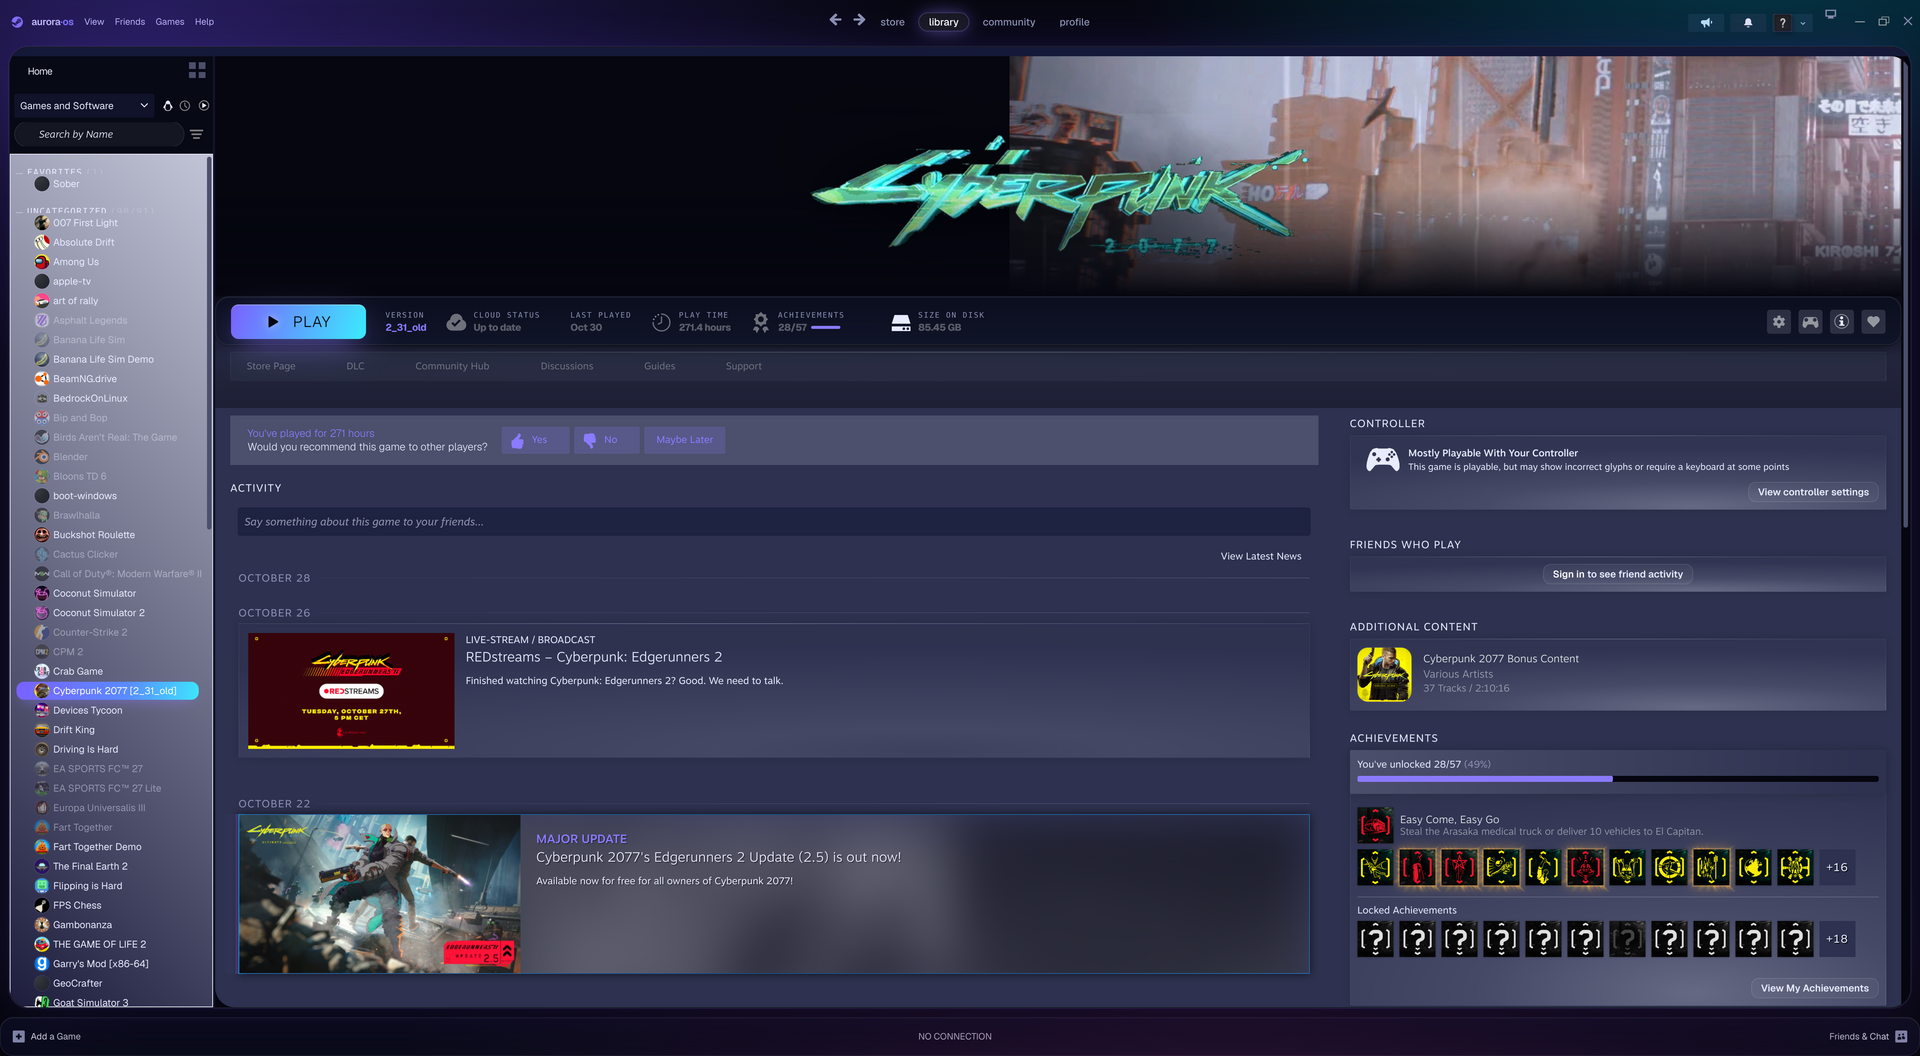
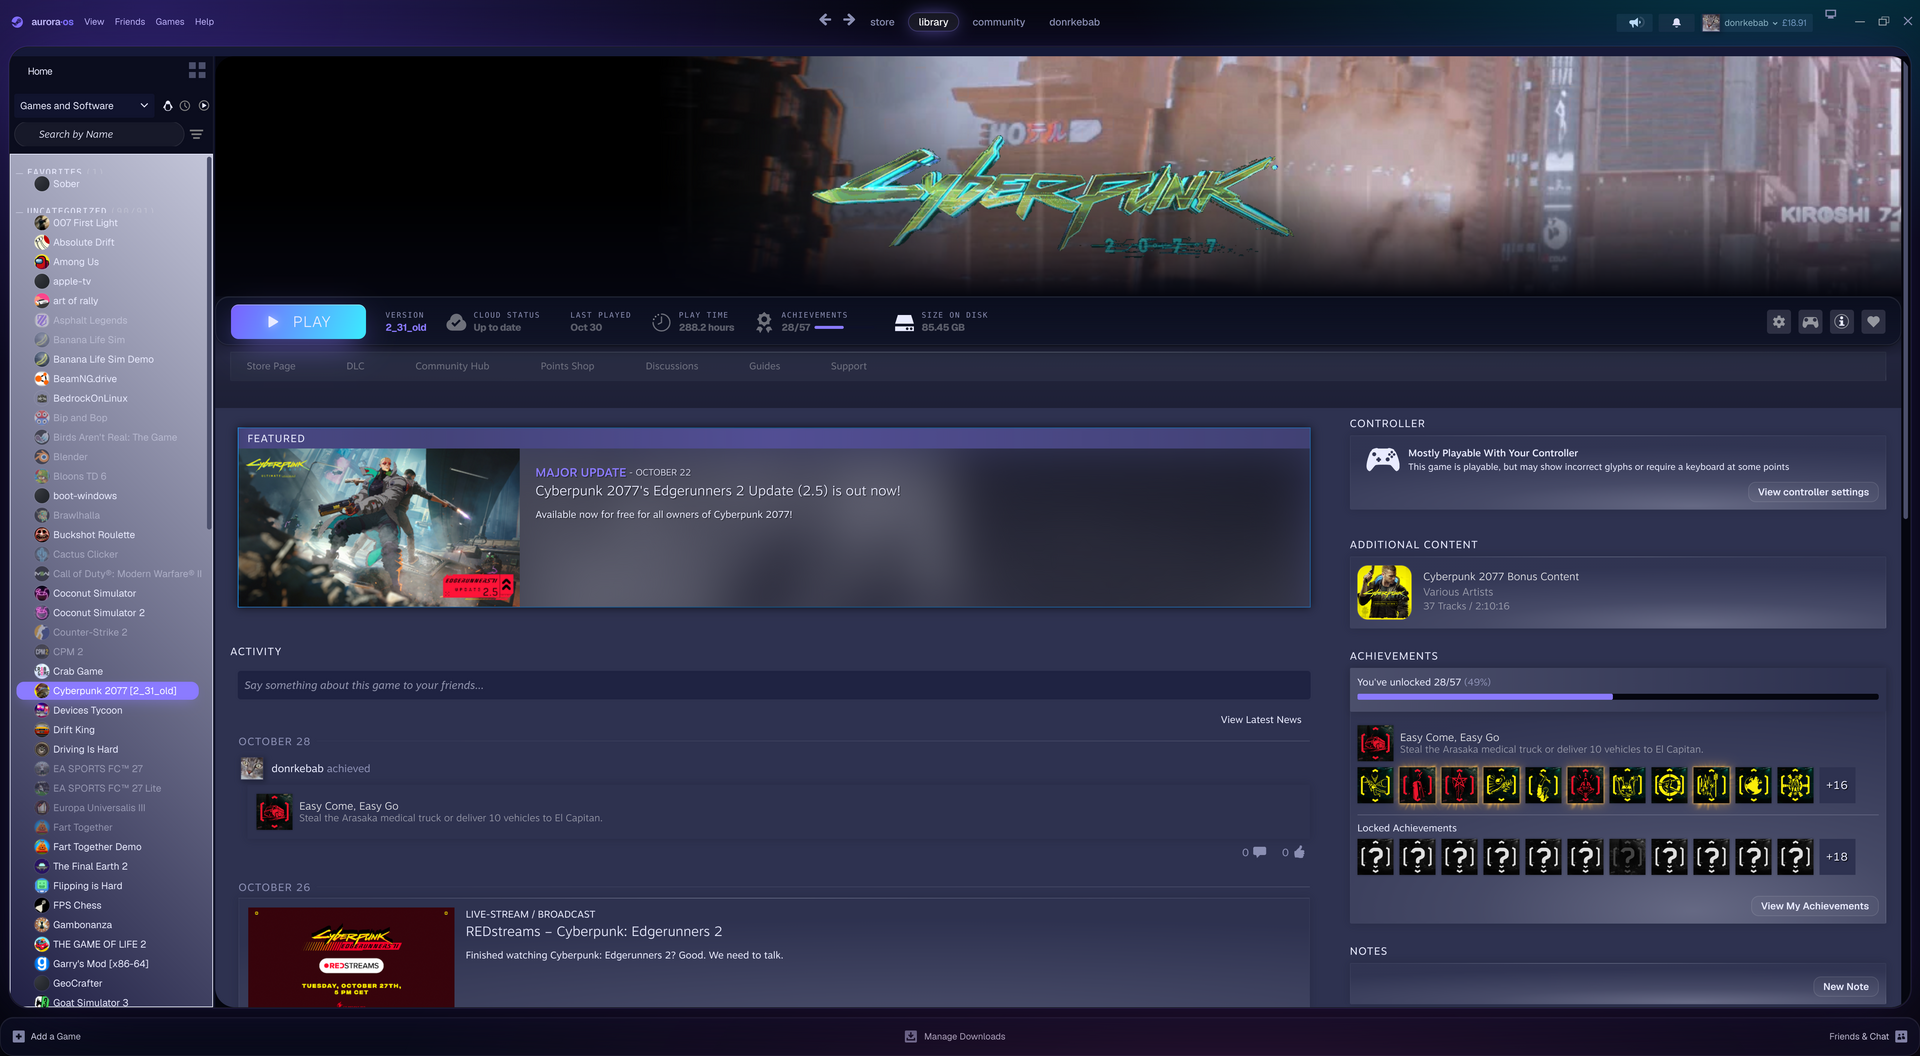
Centered game art, solid sidebar colors, refreshed screenshots

diff --git a/mx/main.css b/mx/main.css
@@ -8,12 +8,12 @@
 --btn-r:10px;--btn-bg:#ffffff0a;--btn-fg:#e9ebff;--btn-border:1px solid #ffffff1a;--btn-bg-h:#ffffff14;--btn-fg-h:#fff;
 --btn-glow:0 0 0 1px #8b7bff80,0 10px 40px -8px #8b7bffaa;--btn-pri:linear-gradient(110deg,#7b61ff,#3ee6ff,#7b61ff);--btn-pri-fg:#05060f}
 :root{--surface-solid:#0e1128;--surface-solid-2:#151938;--surface:#0d1026a6;--surface-2:#ffffff0d;--dock:#0c0f22b3;--hi:#ffffff14;--line-hi:#8b7bff66;--spot:#8b7bff1f;--gap:10px;--rx:18px;--rx-xl:26px;--icon-r:7px;
---sel:linear-gradient(100deg,#7b61ff,#5a8bff 60%,#3ee6ff);--sel-fg:#fff;--font-mono:ui-monospace,monospace}
+--sel:var(--acc);--sel-fg:#fff;--font-mono:ui-monospace,monospace}
 :root{--st-background:5,6,15!important;--st-color-1:11,13,30!important;--st-color-2:19,22,46!important;--st-color-3:14,16,36!important;--st-color-4:16,19,40!important;--st-color-5:34,38,70!important;--st-color-6:30,33,62!important;--st-accent-1:139,123,255!important;--st-accent-2:62,230,255!important;--st-blue:123,97,255!important;--st-blue-hover:150,130,255!important;--st-green:52,211,153!important;--st-green-hover:80,225,170!important;--st-red:255,84,112!important;--st-red-hover:255,110,135!important;--st-yellow:255,196,87!important;--st-yellow-hover:255,210,120!important;--st-border-radius:14px!important}
 :root{--logo-a:"aurora";--logo-b:"·os";--logo-font:600 13px 'Geist',sans-serif;--logo-ls:-.02em;--logo-fill:linear-gradient(90deg,#8b7bff,#3ee6ff,#8b7bff)}
 :root{--nav-tt:lowercase;--nav-ls:0;--nav-size:13.5px;--nav-sel-bg:#ffffff12;--nav-sel-fg:#fff;--nav-sel-shadow:inset 0 0 0 1px #8b7bff55,0 0 24px -6px #8b7bff}
 :root{--store-h1:36px}
-:root{--rail-bg:#0b0d1e66;--cover-r:14px}
+:root{--rail-bg:#0b0d1e;--cover-r:14px}
 :root{--shelf-size:20px}
 :root{--login-h:32px;--avatar-r:50%;--st-online:#6fd3ff;--st-ingame:#9be15d}
 /* generated by gen_base.py from Steam desktop CSS: hardcoded colours -> theme tokens */
@@ -956,7 +956,7 @@
 ._3x1HklzyDs4TEjACrRO2tB{position:relative}
 @keyframes beam{from{transform:translateY(-100%)}to{transform:translateY(400%)}}
 :root{--surface-solid:#0e1128;--surface-solid-2:#151938;--surface:#0d1026a6;--surface-2:#ffffff0d;--dock:#0c0f22b3;--hi:#ffffff14;--line-hi:#8b7bff66;--spot:#8b7bff1f;--gap:10px;--rx:18px;--rx-xl:26px;--icon-r:7px;
---sel:linear-gradient(100deg,#7b61ff,#5a8bff 60%,#3ee6ff);--sel-fg:#fff;--font-mono:ui-monospace,monospace}
+--sel:var(--acc);--sel-fg:#fff;--font-mono:ui-monospace,monospace}
 :root{--st-background:5,6,15!important;--st-color-1:11,13,30!important;--st-color-2:19,22,46!important;--st-color-3:14,16,36!important;--st-color-4:16,19,40!important;--st-color-5:34,38,70!important;--st-color-6:30,33,62!important;--st-accent-1:139,123,255!important;--st-accent-2:62,230,255!important;--st-blue:123,97,255!important;--st-blue-hover:150,130,255!important;--st-green:52,211,153!important;--st-green-hover:80,225,170!important;--st-red:255,84,112!important;--st-red-hover:255,110,135!important;--st-yellow:255,196,87!important;--st-yellow-hover:255,210,120!important;--st-border-radius:14px!important}
 /* identity: soft glass, lowercase wordmark, pill nav */
 :root{--logo-a:"aurora";--logo-b:"·os";--logo-font:600 13px 'Geist',sans-serif;--logo-ls:-.02em;--logo-fill:linear-gradient(90deg,#8b7bff,#3ee6ff,#8b7bff)}
@@ -964,7 +964,7 @@
 ._1rDh5rXSFZJOqCa4UpnI4z{box-shadow:0 0 0 1px color-mix(in srgb,var(--acc) 13%,transparent),0 0 80px -20px #6d4bff55,0 40px 120px -40px #000!important}
 :root{--nav-tt:lowercase;--nav-ls:0;--nav-size:13.5px;--nav-sel-bg:#ffffff12;--nav-sel-fg:#fff;--nav-sel-shadow:inset 0 0 0 1px #8b7bff55,0 0 24px -6px #8b7bff}
 :root{--store-h1:36px}
-:root{--rail-bg:#0b0d1e66;--cover-r:14px}
+:root{--rail-bg:#0b0d1e;--cover-r:14px}
 /* ===== AURORA structure: everything floats — detached glass sidebar, soft rounded shelf cards, airy spacing ===== */
 ._3x1HklzyDs4TEjACrRO2tB{margin:12px 0 12px 12px!important;border:1px solid #ffffff14!important;border-radius:22px!important;background:#0d1026cc!important;box-shadow:inset 0 1px 0 #ffffff12!important;overflow:hidden}
 .V7RuDNUxhxoBRaiGWbk3B,.rvYRfhjWoi57GShuRcAwP{margin:0 14px 14px!important;padding:16px 22px 22px!important;background:#ffffff06!important;border:1px solid #ffffff10!important;border-radius:22px!important}
@@ -1038,12 +1038,10 @@ body::before{content:"";position:fixed;inset:-20%;pointer-events:none;z-index:0;
 ._1rDh5rXSFZJOqCa4UpnI4z{margin-top:6px!important}
 ._26Gmfe09NRsnF7eprTZYdY{margin:8px 12px!important;height:30px!important}
 ._39oUCO1OuizVPwcnnv88no>*,._39oUCO1OuizVPwcnnv88no>*>*{align-self:center!important}
-/* hero art: fill the banner edge to edge; hide the blurred fallback layer */
-.NZMJ6g2iVnFsOOp-lDmIP .HNbe3eZf6H7dtJ042x1vM.HSQWw9HUAP6jtA2OZjS-u{display:none!important}
-.NZMJ6g2iVnFsOOp-lDmIP .QlR9EFwTdUNm_J5vx54_Z{left:0!important;right:0!important;width:100%!important}
-.NZMJ6g2iVnFsOOp-lDmIP{background:var(--bg-solid)!important}
-.NZMJ6g2iVnFsOOp-lDmIP .HNbe3eZf6H7dtJ042x1vM:not(.HSQWw9HUAP6jtA2OZjS-u){width:100%!important;height:100%!important;object-fit:contain!important;object-position:center!important;left:0!important;transform:none!important;-webkit-mask-image:linear-gradient(90deg,transparent 0,#000 22%,#000 78%,transparent 100%);mask-image:linear-gradient(90deg,transparent 0,#000 22%,#000 78%,transparent 100%)}
-._3ydigb6zZAjJ0JCDgHwSYA._2AzIX5kl9k6JnxLfR5H4kX:has(.SVGIcon_Play) *,._3ydigb6zZAjJ0JCDgHwSYA._2AzIX5kl9k6JnxLfR5H4kX:has(.SVGIcon_Download) *{color:inherit!important;fill:currentColor!important}
+/* hero art: Steam's own centring (max 1660px); blurred/mirrored fills hidden; solid black sides with a soft edge */
+.NZMJ6g2iVnFsOOp-lDmIP{overflow:hidden!important;background:#000!important}
+.NZMJ6g2iVnFsOOp-lDmIP .HNbe3eZf6H7dtJ042x1vM.HSQWw9HUAP6jtA2OZjS-u,.NZMJ6g2iVnFsOOp-lDmIP .HNbe3eZf6H7dtJ042x1vM._3_IUVzR9tpG_JKEjhwXEAb{display:none!important}
+.NZMJ6g2iVnFsOOp-lDmIP .HNbe3eZf6H7dtJ042x1vM:not(.HSQWw9HUAP6jtA2OZjS-u):not(._3_IUVzR9tpG_JKEjhwXEAb){-webkit-mask-image:linear-gradient(90deg,transparent,#000 12%,#000 88%,transparent),linear-gradient(#000 70%,transparent)!important;-webkit-mask-composite:source-in!important;mask-composite:intersect!important;-webkit-mask-size:100% 100%!important;-webkit-mask-repeat:no-repeat!important}
 /* ===== layout layer: floating composition, motion, spotlight ===== */
 :root{--ease:cubic-bezier(.2,.9,.25,1)}
 /* panel recipe */

diff --git a/mx/popup.css b/mx/popup.css
@@ -8,12 +8,12 @@
 --btn-r:10px;--btn-bg:#ffffff0a;--btn-fg:#e9ebff;--btn-border:1px solid #ffffff1a;--btn-bg-h:#ffffff14;--btn-fg-h:#fff;
 --btn-glow:0 0 0 1px #8b7bff80,0 10px 40px -8px #8b7bffaa;--btn-pri:linear-gradient(110deg,#7b61ff,#3ee6ff,#7b61ff);--btn-pri-fg:#05060f}
 :root{--surface-solid:#0e1128;--surface-solid-2:#151938;--surface:#0d1026a6;--surface-2:#ffffff0d;--dock:#0c0f22b3;--hi:#ffffff14;--line-hi:#8b7bff66;--spot:#8b7bff1f;--gap:10px;--rx:18px;--rx-xl:26px;--icon-r:7px;
---sel:linear-gradient(100deg,#7b61ff,#5a8bff 60%,#3ee6ff);--sel-fg:#fff;--font-mono:ui-monospace,monospace}
+--sel:var(--acc);--sel-fg:#fff;--font-mono:ui-monospace,monospace}
 :root{--st-background:5,6,15!important;--st-color-1:11,13,30!important;--st-color-2:19,22,46!important;--st-color-3:14,16,36!important;--st-color-4:16,19,40!important;--st-color-5:34,38,70!important;--st-color-6:30,33,62!important;--st-accent-1:139,123,255!important;--st-accent-2:62,230,255!important;--st-blue:123,97,255!important;--st-blue-hover:150,130,255!important;--st-green:52,211,153!important;--st-green-hover:80,225,170!important;--st-red:255,84,112!important;--st-red-hover:255,110,135!important;--st-yellow:255,196,87!important;--st-yellow-hover:255,210,120!important;--st-border-radius:14px!important}
 :root{--logo-a:"aurora";--logo-b:"·os";--logo-font:600 13px 'Geist',sans-serif;--logo-ls:-.02em;--logo-fill:linear-gradient(90deg,#8b7bff,#3ee6ff,#8b7bff)}
 :root{--nav-tt:lowercase;--nav-ls:0;--nav-size:13.5px;--nav-sel-bg:#ffffff12;--nav-sel-fg:#fff;--nav-sel-shadow:inset 0 0 0 1px #8b7bff55,0 0 24px -6px #8b7bff}
 :root{--store-h1:36px}
-:root{--rail-bg:#0b0d1e66;--cover-r:14px}
+:root{--rail-bg:#0b0d1e;--cover-r:14px}
 :root{--shelf-size:20px}
 :root{--login-h:32px;--avatar-r:50%;--st-online:#6fd3ff;--st-ingame:#9be15d}
 html,body{background:transparent!important;font-family:var(--font)!important;color:var(--text)!important}

diff --git a/mx/webkit.css b/mx/webkit.css
@@ -8,12 +8,12 @@
 --btn-r:10px;--btn-bg:#ffffff0a;--btn-fg:#e9ebff;--btn-border:1px solid #ffffff1a;--btn-bg-h:#ffffff14;--btn-fg-h:#fff;
 --btn-glow:0 0 0 1px #8b7bff80,0 10px 40px -8px #8b7bffaa;--btn-pri:linear-gradient(110deg,#7b61ff,#3ee6ff,#7b61ff);--btn-pri-fg:#05060f}
 :root{--surface-solid:#0e1128;--surface-solid-2:#151938;--surface:#0d1026a6;--surface-2:#ffffff0d;--dock:#0c0f22b3;--hi:#ffffff14;--line-hi:#8b7bff66;--spot:#8b7bff1f;--gap:10px;--rx:18px;--rx-xl:26px;--icon-r:7px;
---sel:linear-gradient(100deg,#7b61ff,#5a8bff 60%,#3ee6ff);--sel-fg:#fff;--font-mono:ui-monospace,monospace}
+--sel:var(--acc);--sel-fg:#fff;--font-mono:ui-monospace,monospace}
 :root{--st-background:5,6,15!important;--st-color-1:11,13,30!important;--st-color-2:19,22,46!important;--st-color-3:14,16,36!important;--st-color-4:16,19,40!important;--st-color-5:34,38,70!important;--st-color-6:30,33,62!important;--st-accent-1:139,123,255!important;--st-accent-2:62,230,255!important;--st-blue:123,97,255!important;--st-blue-hover:150,130,255!important;--st-green:52,211,153!important;--st-green-hover:80,225,170!important;--st-red:255,84,112!important;--st-red-hover:255,110,135!important;--st-yellow:255,196,87!important;--st-yellow-hover:255,210,120!important;--st-border-radius:14px!important}
 :root{--logo-a:"aurora";--logo-b:"·os";--logo-font:600 13px 'Geist',sans-serif;--logo-ls:-.02em;--logo-fill:linear-gradient(90deg,#8b7bff,#3ee6ff,#8b7bff)}
 :root{--nav-tt:lowercase;--nav-ls:0;--nav-size:13.5px;--nav-sel-bg:#ffffff12;--nav-sel-fg:#fff;--nav-sel-shadow:inset 0 0 0 1px #8b7bff55,0 0 24px -6px #8b7bff}
 :root{--store-h1:36px}
-:root{--rail-bg:#0b0d1e66;--cover-r:14px}
+:root{--rail-bg:#0b0d1e;--cover-r:14px}
 :root{--shelf-size:20px}
 :root{--login-h:32px;--avatar-r:50%;--st-online:#6fd3ff;--st-ingame:#9be15d}
 /* store / community pages */

diff --git a/mx/root.css b/mx/root.css
@@ -8,11 +8,11 @@
 --btn-r:10px;--btn-bg:#ffffff0a;--btn-fg:#e9ebff;--btn-border:1px solid #ffffff1a;--btn-bg-h:#ffffff14;--btn-fg-h:#fff;
 --btn-glow:0 0 0 1px #8b7bff80,0 10px 40px -8px #8b7bffaa;--btn-pri:linear-gradient(110deg,#7b61ff,#3ee6ff,#7b61ff);--btn-pri-fg:#05060f}
 :root{--surface-solid:#0e1128;--surface-solid-2:#151938;--surface:#0d1026a6;--surface-2:#ffffff0d;--dock:#0c0f22b3;--hi:#ffffff14;--line-hi:#8b7bff66;--spot:#8b7bff1f;--gap:10px;--rx:18px;--rx-xl:26px;--icon-r:7px;
---sel:linear-gradient(100deg,#7b61ff,#5a8bff 60%,#3ee6ff);--sel-fg:#fff;--font-mono:ui-monospace,monospace}
+--sel:var(--acc);--sel-fg:#fff;--font-mono:ui-monospace,monospace}
 :root{--st-background:5,6,15!important;--st-color-1:11,13,30!important;--st-color-2:19,22,46!important;--st-color-3:14,16,36!important;--st-color-4:16,19,40!important;--st-color-5:34,38,70!important;--st-color-6:30,33,62!important;--st-accent-1:139,123,255!important;--st-accent-2:62,230,255!important;--st-blue:123,97,255!important;--st-blue-hover:150,130,255!important;--st-green:52,211,153!important;--st-green-hover:80,225,170!important;--st-red:255,84,112!important;--st-red-hover:255,110,135!important;--st-yellow:255,196,87!important;--st-yellow-hover:255,210,120!important;--st-border-radius:14px!important}
 :root{--logo-a:"aurora";--logo-b:"·os";--logo-font:600 13px 'Geist',sans-serif;--logo-ls:-.02em;--logo-fill:linear-gradient(90deg,#8b7bff,#3ee6ff,#8b7bff)}
 :root{--nav-tt:lowercase;--nav-ls:0;--nav-size:13.5px;--nav-sel-bg:#ffffff12;--nav-sel-fg:#fff;--nav-sel-shadow:inset 0 0 0 1px #8b7bff55,0 0 24px -6px #8b7bff}
 :root{--store-h1:36px}
-:root{--rail-bg:#0b0d1e66;--cover-r:14px}
+:root{--rail-bg:#0b0d1e;--cover-r:14px}
 :root{--shelf-size:20px}
 :root{--login-h:32px;--avatar-r:50%;--st-online:#6fd3ff;--st-ingame:#9be15d}

diff --git a/mx/opt/accent-rose.css b/mx/opt/accent-rose.css
@@ -1,1 +1,1 @@
-:root{--acc:#ff6bb5!important;--acc2:#8b7bff!important;--ring:#ff6bb540!important;--spot:#ff6bb51f!important;--line-hi:#ff6bb566!important;--sel:linear-gradient(100deg,#ff6bb5,#8b7bff)!important;--sel-fg:#0b0b0a!important;--nav-sel-fg:#ff6bb5!important;--btn-pri:linear-gradient(110deg,#ff6bb5,#8b7bff,#ff6bb5)!important;--btn-pri-fg:#0b0b0a!important;--price-bg:#ff6bb5!important;--price-fg:#0b0b0a!important;--st-accent-1:255,107,181!important;--st-accent-2:139,123,255!important;--st-blue:255,107,181!important;--st-blue-hover:139,123,255!important}
+:root{--acc:#ff6bb5!important;--acc2:#8b7bff!important;--ring:#ff6bb540!important;--spot:#ff6bb51f!important;--line-hi:#ff6bb566!important;--sel:#ff6bb5!important;--sel-fg:#0b0b0a!important;--nav-sel-fg:#ff6bb5!important;--btn-pri:linear-gradient(110deg,#ff6bb5,#8b7bff,#ff6bb5)!important;--btn-pri-fg:#0b0b0a!important;--price-bg:#ff6bb5!important;--price-fg:#0b0b0a!important;--st-accent-1:255,107,181!important;--st-accent-2:139,123,255!important;--st-blue:255,107,181!important;--st-blue-hover:139,123,255!important}

diff --git a/mx/opt/accent-mint.css b/mx/opt/accent-mint.css
@@ -1,1 +1,1 @@
-:root{--acc:#3ef0b0!important;--acc2:#3ee6ff!important;--ring:#3ef0b040!important;--spot:#3ef0b01f!important;--line-hi:#3ef0b066!important;--sel:linear-gradient(100deg,#3ef0b0,#3ee6ff)!important;--sel-fg:#0b0b0a!important;--nav-sel-fg:#3ef0b0!important;--btn-pri:linear-gradient(110deg,#3ef0b0,#3ee6ff,#3ef0b0)!important;--btn-pri-fg:#0b0b0a!important;--price-bg:#3ef0b0!important;--price-fg:#0b0b0a!important;--st-accent-1:62,240,176!important;--st-accent-2:62,230,255!important;--st-blue:62,240,176!important;--st-blue-hover:62,230,255!important}
+:root{--acc:#3ef0b0!important;--acc2:#3ee6ff!important;--ring:#3ef0b040!important;--spot:#3ef0b01f!important;--line-hi:#3ef0b066!important;--sel:#3ef0b0!important;--sel-fg:#0b0b0a!important;--nav-sel-fg:#3ef0b0!important;--btn-pri:linear-gradient(110deg,#3ef0b0,#3ee6ff,#3ef0b0)!important;--btn-pri-fg:#0b0b0a!important;--price-bg:#3ef0b0!important;--price-fg:#0b0b0a!important;--st-accent-1:62,240,176!important;--st-accent-2:62,230,255!important;--st-blue:62,240,176!important;--st-blue-hover:62,230,255!important}

diff --git a/mx/opt/accent-sky.css b/mx/opt/accent-sky.css
@@ -1,1 +1,1 @@
-:root{--acc:#4da3ff!important;--acc2:#3ee6ff!important;--ring:#4da3ff40!important;--spot:#4da3ff1f!important;--line-hi:#4da3ff66!important;--sel:linear-gradient(100deg,#4da3ff,#3ee6ff)!important;--sel-fg:#0b0b0a!important;--nav-sel-fg:#4da3ff!important;--btn-pri:linear-gradient(110deg,#4da3ff,#3ee6ff,#4da3ff)!important;--btn-pri-fg:#0b0b0a!important;--price-bg:#4da3ff!important;--price-fg:#0b0b0a!important;--st-accent-1:77,163,255!important;--st-accent-2:62,230,255!important;--st-blue:77,163,255!important;--st-blue-hover:62,230,255!important}
+:root{--acc:#4da3ff!important;--acc2:#3ee6ff!important;--ring:#4da3ff40!important;--spot:#4da3ff1f!important;--line-hi:#4da3ff66!important;--sel:#4da3ff!important;--sel-fg:#0b0b0a!important;--nav-sel-fg:#4da3ff!important;--btn-pri:linear-gradient(110deg,#4da3ff,#3ee6ff,#4da3ff)!important;--btn-pri-fg:#0b0b0a!important;--price-bg:#4da3ff!important;--price-fg:#0b0b0a!important;--st-accent-1:77,163,255!important;--st-accent-2:62,230,255!important;--st-blue:77,163,255!important;--st-blue-hover:62,230,255!important}
